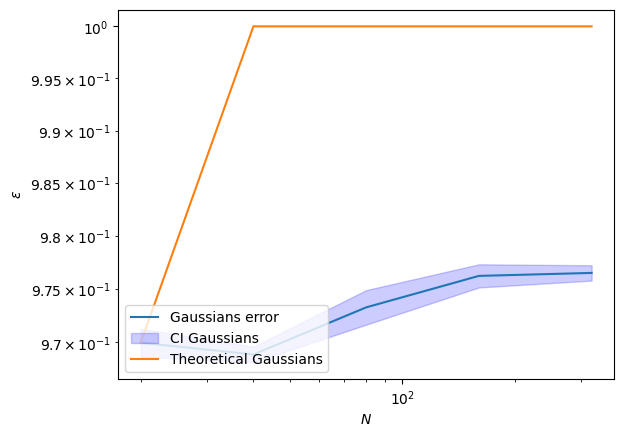
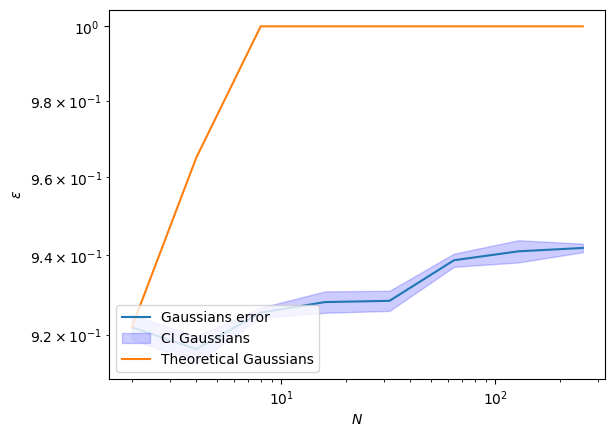
Got figures

diff --git a/gEDMDtests/gEDMD_Dictionary_Limit_All.py b/gEDMDtests/gEDMD_Dictionary_Limit_All.py
@@ -23,8 +23,8 @@ plt.ion()
 M_exact = 100000
 M_approx = 10000
 min_number_of_observables = 2
-boxes1 = 20
-boxes2 = 10
+boxes1 = 32
+boxes2 = 16
 boxes = np.array([boxes1, boxes2])
 max_number_of_observables = boxes1 * boxes2
 
@@ -67,8 +67,7 @@ gedmd_helper.plot_errors_dictionary_limit(
     M_approx=M_approx,
     prob=0.5,
     #title='Simple deterministic system gEDMD',
-    #path='ODE'
-)
+    path='ODE')
 
 
 # ########################################
